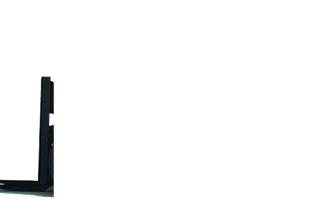
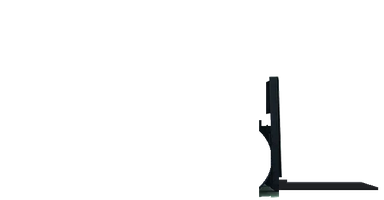
Testversion 1.20.33: Gasstapler fährt nach rechts (Schrift lesbar), längere saubere Gabelzinken, Vorderrad beim Heben vollständig
Claude-Session: https://claude.ai/code/session_01GSjzxe2VGqLmRfApdXsdg9

Changed region(s): [[0.6562, 0.36, 1.0, 0.99], [0.0, 0.36, 0.1875, 0.99]]

diff --git a/web/index.html b/web/index.html
@@ -421,14 +421,12 @@ body{padding-bottom:172px}
 .fz .mast.neigen{transform-origin:61% 86%;animation:neigen 5.2s ease-in-out infinite}
 .fz .mast.schub{animation:schub 6s ease-in-out infinite}
 .fz1{height:142px;animation-delay:0s}.fz1 .mast img.g{--hub:-38%}
-.fz2{height:150px;animation-delay:-7.3s}.fz2 .mast img.g{--hub:-34%;animation-delay:-1.5s}
-.fz3{height:80px;animation-delay:-14.6s}.fz3 .mast img.g{--hub:-5%;animation-delay:-3s;animation-duration:3s}
-/* großer Diesel-/Gasstapler: fährt auf der hinteren Spur von rechts nach links (Gabel vorn) */
-.fz4{height:132px;bottom:16px;z-index:-1;animation-name:fahrenL;animation-duration:26s;animation-delay:-5s;filter:drop-shadow(0 4px 3px rgba(0,0,0,.16)) saturate(.95)}
-.fz4 .mast img.g{--hub:-30%;animation-delay:-2.2s;animation-duration:5s}
-.fz4 .mast.neigen{transform-origin:23% 66%;animation-name:neigenL;animation-duration:6s}
-@keyframes fahrenL{0%{transform:translateX(calc(100cqw + 40px))}100%{transform:translateX(-420px)}}
-@keyframes neigenL{0%,15%{transform:rotate(0)}35%,50%{transform:rotate(3.5deg)}70%,85%{transform:rotate(-2.5deg)}100%{transform:rotate(0)}}
+.fz2{height:150px;animation-delay:-5.5s}.fz2 .mast img.g{--hub:-34%;animation-delay:-1.5s}
+.fz3{height:80px;animation-delay:-11s}.fz3 .mast img.g{--hub:-5%;animation-delay:-3s;animation-duration:3s}
+/* großer Gasstapler: fährt wie die anderen nach rechts, Mast neigt, Gabel hebt */
+.fz4{height:150px;animation-delay:-16.5s}
+.fz4 .mast img.g{--hub:-28%;animation-delay:-2.2s;animation-duration:5s}
+.fz4 .mast.neigen{transform-origin:77% 66%;animation-duration:6s}
 @keyframes neigen{0%,15%{transform:rotate(0)}35%,50%{transform:rotate(-3.5deg)}70%,85%{transform:rotate(2.5deg)}100%{transform:rotate(0)}}
 @keyframes schub{0%,15%{transform:translateX(0)}40%,65%{transform:translateX(16%)}90%,100%{transform:translateX(0)}}
 @keyframes fahren{0%{transform:translateX(-420px)}100%{transform:translateX(calc(100cqw + 40px))}}
